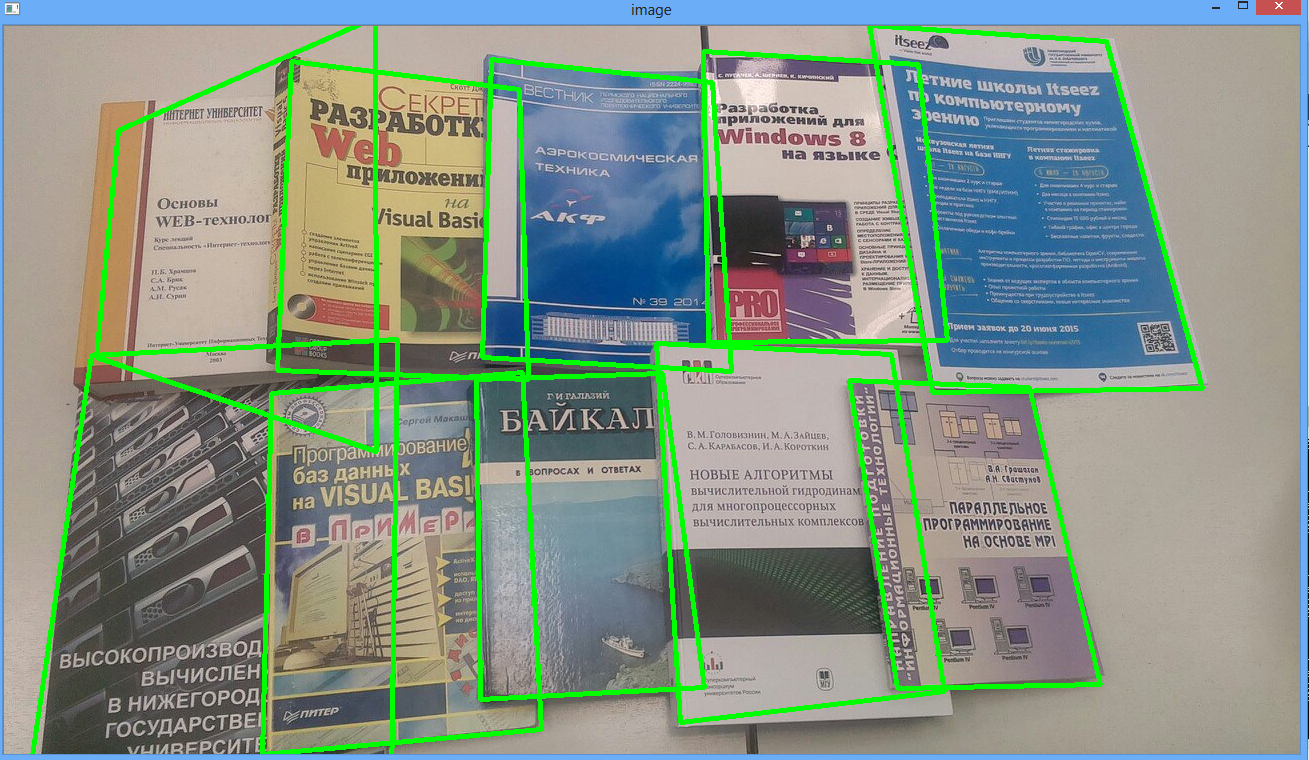
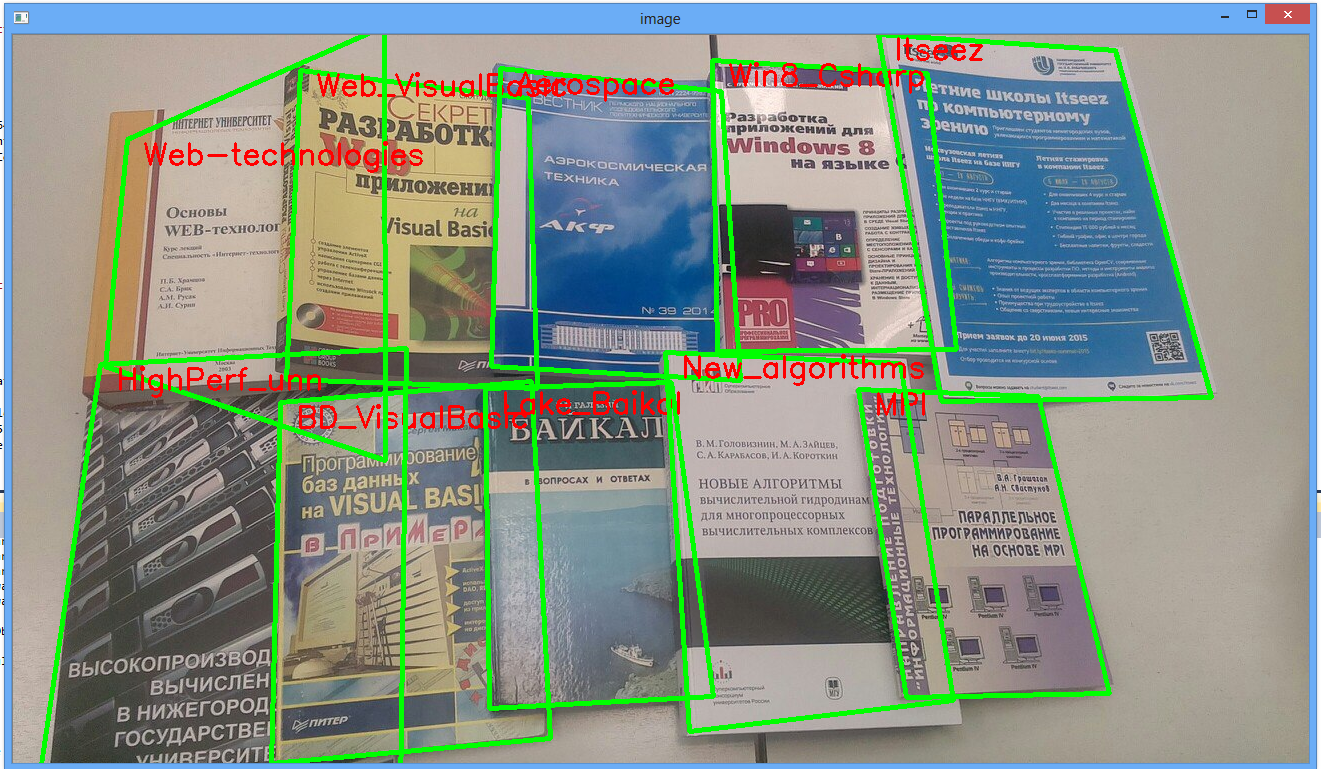
add draw class and result image

diff --git a/src/object_recognition.cpp b/src/object_recognition.cpp
@@ -33,7 +33,7 @@ void subscribeObject(Mat& image, string name, Point2f leftCornerCoord)
 {    
     Point2f textCoord(leftCornerCoord.x, leftCornerCoord.y + 25);
     Scalar Red(0, 0, 255);
-    putText(image, name, textCoord, FONT_HERSHEY_COMPLEX, 1.0, Red, 2);
+	putText(image, name, textCoord, FONT_ITALIC, 1, Red, 2,5);
 }
 
 
@@ -154,17 +154,20 @@ int main(int argc, const char **argv)
 
 
 	Mat img;
-
+	string str;
     while (sampleListFileReader.getline(buff, 50))
     {
-        string str(buff);
+        str = (string) buff;
         string image_file = str.substr(0,str.find(" "));
 		image = imread(_path + image_file);
 		compute(image,tmp);
 		//matcher = matches(tmp, test);
 		scene = Homography(	matches(tmp, test), tmp, test, 3.0, H);
 		//inliers(matcher,scene,test,3.0,inlier);
-		DrawContours(image, test_image, H, Scalar(0,255,0), "ololo");	
+
+		str = str.substr(str.find(" "), str.length()-1);
+
+		DrawContours(image, test_image, H, Scalar(0,255,0), str);	
     }
 
 	TE();
